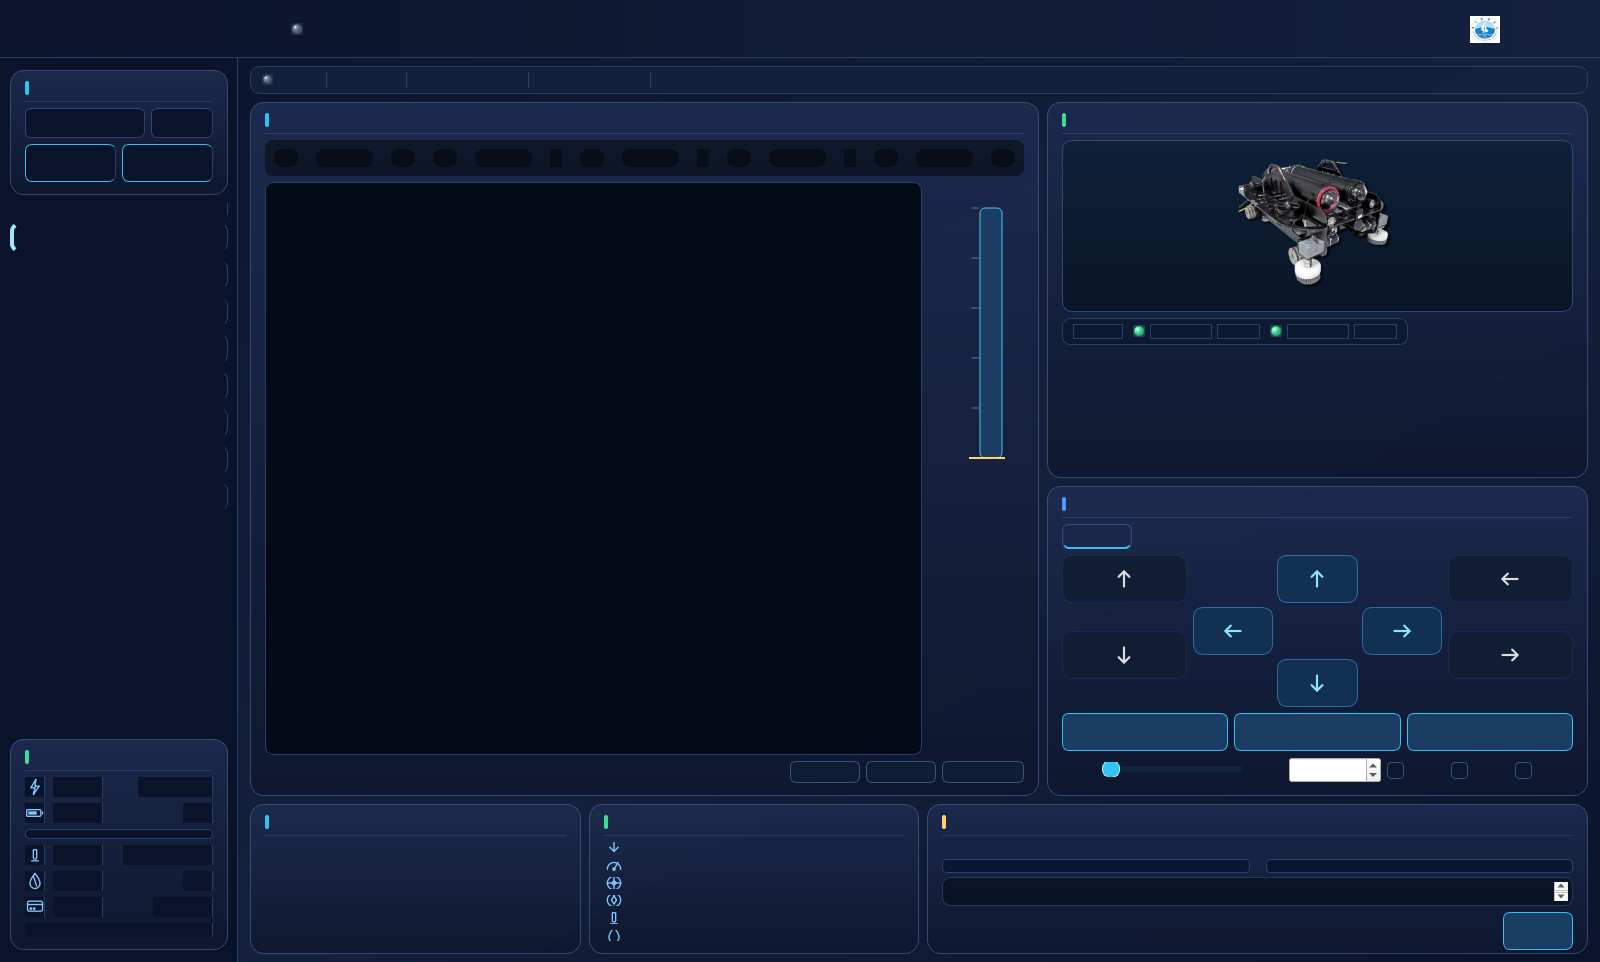
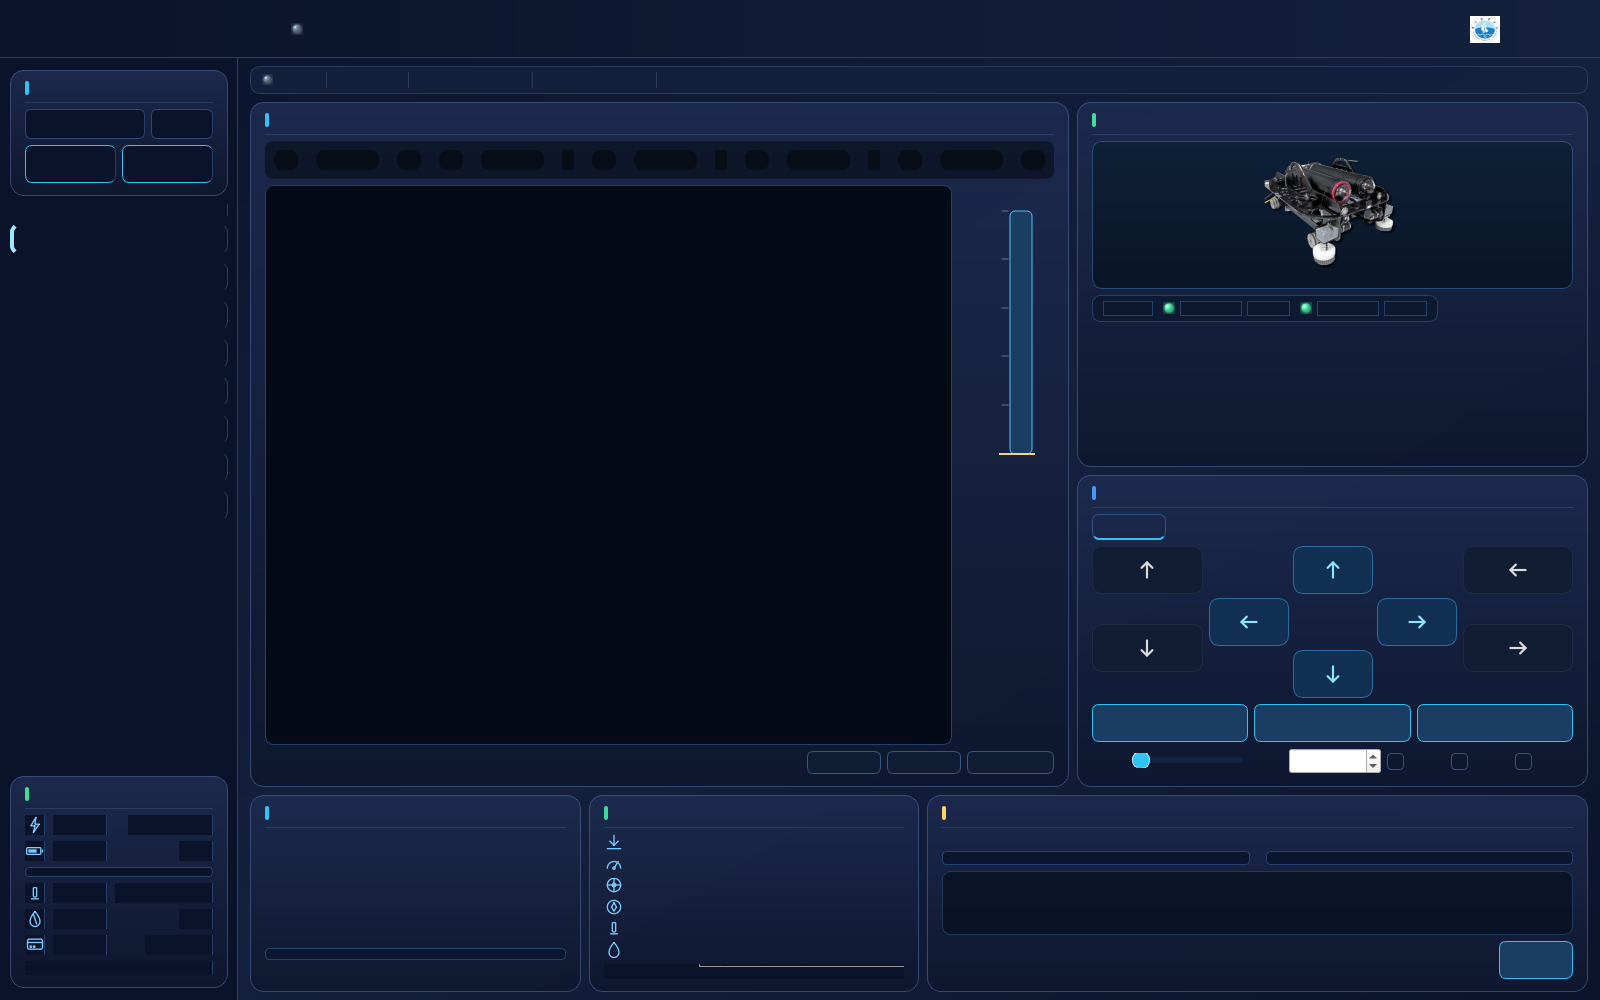
放大全局字号 + 首屏补内容(传感器趋势曲线/任务进度条/填充右列)

diff --git a/dashboard.py b/dashboard.py
@@ -195,7 +195,7 @@ def _panel(title, accent=CYAN):
     bar.setStyleSheet("background:%s; border:none; border-radius:2px;" % accent)
     head = QLabel(title)
     head.setStyleSheet(
-        "color:%s; font-size:14px; font-weight:800; border:none; background:transparent;"
+        "color:%s; font-size:15px; font-weight:800; border:none; background:transparent;"
         "letter-spacing:1px;" % accent)
     hrow.addWidget(bar)
     hrow.addWidget(head, 1)
@@ -253,9 +253,9 @@ def _kv(label, value="--", color=TXT_SUB, unit="", mono=False, icon=None):
             lbl_ico.setPixmap(ico.pixmap(20, 20))
         row.addWidget(lbl_ico)
     lab = QLabel(label)
-    lab.setStyleSheet("color:%s; font-size:12px; letter-spacing:0.5px;" % TXT_SUB)
+    lab.setStyleSheet("color:%s; font-size:13px; letter-spacing:0.5px;" % TXT_SUB)
     val = QLabel("%s%s" % (value, unit))
-    val.setStyleSheet("color:%s; font-size:14px; font-weight:800;" % color)
+    val.setStyleSheet("color:%s; font-size:16px; font-weight:800;" % color)
     if mono:
         _mono(val)
     row.addWidget(lab)
@@ -590,7 +590,7 @@ class Dashboard(QWidget):
             h = QHBoxLayout()
             h.setSpacing(5)
             lb = QLabel(label)
-            lb.setStyleSheet("color:%s;font-size:11px;" % TXT_SUB)
+            lb.setStyleSheet("color:%s;font-size:12px;" % TXT_SUB)
             val = QLabel("--")
             val.setStyleSheet("color:%s;font-size:13px;font-weight:800;" % color)
             _mono(val)
@@ -627,7 +627,7 @@ class Dashboard(QWidget):
             tm = QLabel("演示模式")
         else:
             tm = QLabel("展会演示模式")
-        tm.setStyleSheet("color:%s;font-size:11px;" % TXT_SUB)
+        tm.setStyleSheet("color:%s;font-size:12px;" % TXT_SUB)
         lay.addWidget(tm)
         return bar
 
@@ -646,21 +646,21 @@ class Dashboard(QWidget):
         self._sensor_box, self._sensor_body = _panel("传感器数据", GREEN)
         self._alarm_box, self._alarm_body = _panel("推进器输出与告警", YELLOW)
 
-        # 主区：左视频(主画面, 撑满) + 右紧凑卡片列(贴内容, 顶部对齐)
+        # 主区：左视频(主画面, 撑满) + 右紧凑卡片列(撑满高度, 不再留大空白)
         main = QHBoxLayout()
         main.setSpacing(8)
         main.addWidget(self._video_box, 5)
         right = QVBoxLayout()
         right.setSpacing(8)
         for b in (self._equip_box, self._motion_box):
-            b.setSizePolicy(QSizePolicy.Preferred, QSizePolicy.Maximum)   # 高度贴内容, 不再撑满
+            b.setSizePolicy(QSizePolicy.Preferred, QSizePolicy.Maximum)   # 高度贴内容
         right.addWidget(self._equip_box)
         right.addWidget(self._motion_box)
-        right.addStretch(1)          # 卡片聚顶, 下方留白（QGC 仪表盘风）
+        right.addStretch(1)          # 卡片聚顶，视频撑满主高，避免窗口被顶高
         main.addLayout(right, 4)
         outer.addLayout(main, 1)
 
-        # 底部紧凑横带：任务信息 / 传感器数据 / 推进器输出与告警
+        # 底部紧凑横带：任务信息 / 传感器数据(带趋势) / 推进器输出与告警
         bottom = QHBoxLayout()
         bottom.setSpacing(8)
         for b in (self._task_box, self._sensor_box, self._alarm_box):
@@ -706,7 +706,7 @@ class Dashboard(QWidget):
             lab = QLabel(name)
             lab.setStyleSheet("color:%s; font-size:12px;" % TXT_SUB)
             val = QLabel("--")
-            val.setStyleSheet("color:%s; font-size:20px; font-weight:800;" % TXT)
+            val.setStyleSheet("color:%s; font-size:22px; font-weight:800;" % TXT)
             _mono(val)
             unit_l = QLabel(unit)
             unit_l.setStyleSheet("color:%s; font-size:12px;" % CYAN)
@@ -884,7 +884,7 @@ class Dashboard(QWidget):
             gh.addWidget(lbl)
             gh.addStretch(1)
             val = QLabel(value)
-            val.setStyleSheet("color:%s; font-size:17px; font-weight:800;" % col)
+            val.setStyleSheet("color:%s; font-size:19px; font-weight:800;" % col)
             if fmt is not None:
                 _mono(val)
             row, colc = idx // 2, (idx % 2) * 2
@@ -1230,7 +1230,7 @@ class Dashboard(QWidget):
             lab = QLabel(name)
             lab.setStyleSheet("color:%s; font-size:12px;" % TXT_SUB)
             val = QLabel("--")
-            val.setStyleSheet("color:%s; font-size:18px; font-weight:800;" % TXT)
+            val.setStyleSheet("color:%s; font-size:20px; font-weight:800;" % TXT)
             _mono(val)
             unit_l = QLabel(unit)
             unit_l.setStyleSheet("color:%s; font-size:12px;" % CYAN)
@@ -1307,12 +1307,12 @@ class Dashboard(QWidget):
         photo = QLabel()
         photo.setObjectName("rovPhoto")
         photo.setAlignment(Qt.AlignCenter)
-        photo.setFixedHeight(172)
+        photo.setFixedHeight(148)
         path = os.path.join(ASSET_DIR, "rov_photo.png")
         if os.path.exists(path):
             pm = QPixmap(path)
             if not pm.isNull():
-                photo.setPixmap(pm.scaledToHeight(140, Qt.SmoothTransformation))
+                photo.setPixmap(pm.scaledToHeight(120, Qt.SmoothTransformation))
         else:
             photo.setText("ROV 示意图（待放置俯视图）")
         photo.setStyleSheet(
@@ -1406,7 +1406,7 @@ class Dashboard(QWidget):
         col.addWidget(mvbtn("上升", disabled=True, icon="up"))
         self._pct_up = QLabel("0%")
         self._pct_up.setAlignment(Qt.AlignCenter)
-        self._pct_up.setStyleSheet("color:%s; font-size:16px; font-weight:800;" % CYAN)
+        self._pct_up.setStyleSheet("color:%s; font-size:18px; font-weight:800;" % CYAN)
         col.addWidget(self._pct_up)
         col.addWidget(mvbtn("下降", disabled=True, icon="down"))
         col.addStretch(1)
@@ -1418,7 +1418,7 @@ class Dashboard(QWidget):
         mid.addWidget(mvbtn("左转", lambda: self._move("left"), icon="left"), 1, 0)
         self._pct_center = QLabel("0%")
         self._pct_center.setAlignment(Qt.AlignCenter)
-        self._pct_center.setStyleSheet("color:%s; font-size:16px; font-weight:800;" % CYAN)
+        self._pct_center.setStyleSheet("color:%s; font-size:18px; font-weight:800;" % CYAN)
         mid.addWidget(self._pct_center, 1, 1)
         mid.addWidget(mvbtn("右转", lambda: self._move("right"), icon="right"), 1, 2)
         mid.addWidget(mvbtn("后退", lambda: self._move("backward"), icon="down"), 2, 1)
@@ -1431,7 +1431,7 @@ class Dashboard(QWidget):
         colr.addWidget(mvbtn("左移", disabled=True, icon="left"))
         self._pct_side = QLabel("0%")
         self._pct_side.setAlignment(Qt.AlignCenter)
-        self._pct_side.setStyleSheet("color:%s; font-size:16px; font-weight:800;" % CYAN)
+        self._pct_side.setStyleSheet("color:%s; font-size:18px; font-weight:800;" % CYAN)
         colr.addWidget(self._pct_side)
         colr.addWidget(mvbtn("右移", disabled=True, icon="right"))
         colr.addStretch(1)
@@ -1484,10 +1484,26 @@ class Dashboard(QWidget):
         vals = [
             ("任务名称", "无"), ("任务编号", "无"),
             ("任务时长", "00:00:00"), ("已完成航点", "0 / 0"),
+            ("目标航点", "0"), ("当前速度", "0.0 m/s"),
         ]
         for k, v in vals:
             r, _ = _kv(k, v, TXT)
             body.addLayout(r)
+        # 任务执行进度
+        self._task_pbar = QProgressBar()
+        self._task_pbar.setRange(0, 100)
+        self._task_pbar.setValue(0)
+        self._task_pbar.setFixedHeight(12)
+        self._task_pbar.setObjectName("taskBar")
+        self._task_pbar.setFormat("进度 %p%")
+        self._task_pbar.setStyleSheet(
+            "QProgressBar{background:#0b1730;border:1px solid #23436e;border-radius:4px;"
+            "text-align:center;color:%s;}"
+            "QProgressBar::chunk{background:%s;border-radius:3px;}" % (TXT_SUB, CYAN))
+        body.addWidget(self._task_pbar)
+        self._task_pct = QLabel("完成 0%")
+        self._task_pct.setStyleSheet("color:%s; font-size:13px; font-weight:800;" % CYAN)
+        body.addWidget(self._task_pct)
         body.addStretch(1)
 
     def _build_sensor(self):
@@ -1511,7 +1527,21 @@ class Dashboard(QWidget):
                 r, val = _kv(label, fmt % _ZERO[key], TXT, mono=True, icon=icon)
                 self._sensor_vals.append((label, val, key, (lambda k=key, f=fmt: (lambda v: f % v[k]))()))
             body.addLayout(r)
-        body.addStretch(1)
+
+        # 趋势曲线（深度/水温）—— 填充该卡剩余空间，实时可视化
+        self._sensor_plot = pg.PlotWidget()
+        self._sensor_plot.setBackground(QColor(BG0))
+        self._sensor_plot.showGrid(x=True, y=True, alpha=0.15)
+        self._sensor_plot.hideButtons()
+        self._sensor_plot.setMenuEnabled(False)
+        self._sensor_plot.setLabel("left", "深度 m", color=TXT_SUB)
+        for ax in ("left", "bottom"):
+            self._sensor_plot.getAxis(ax).setTextPen(QColor(TXT_SUB))
+        self._sensor_x = []
+        self._sensor_h = {"depth": [], "temp": []}
+        self._curve_depth = self._sensor_plot.plot(pen=pg.mkPen(CYAN, width=2))
+        self._curve_temp = self._sensor_plot.plot(pen=pg.mkPen(GREEN, width=2))
+        body.addWidget(self._sensor_plot, 1)
 
     def _build_thruster_alarm(self):
         body = self._alarm_body
@@ -1528,7 +1558,7 @@ class Dashboard(QWidget):
             hd = QLabel(tag)
             hd.setStyleSheet("color:%s; font-size:12px; font-weight:800;" % color)
             nm = QLabel(name)
-            nm.setStyleSheet("color:%s; font-size:11px;" % TXT_SUB)
+            nm.setStyleSheet("color:%s; font-size:12px;" % TXT_SUB)
             hrow.addWidget(hd)
             hrow.addWidget(nm)
             hrow.addStretch(1)
@@ -1841,6 +1871,17 @@ class Dashboard(QWidget):
                 lbl2.setText("%.1f" % v[key2])
         for _label, val, _key, f in self._sensor_vals:
             val.setText(f(v))
+        # 传感器趋势曲线（深度/水温）
+        if hasattr(self, "_curve_depth"):
+            self._sensor_x.append(len(self._sensor_x))
+            self._sensor_h["depth"].append(v["depth_m"])
+            self._sensor_h["temp"].append(v["water_temp"])
+            if len(self._sensor_x) > 60:
+                self._sensor_x.pop(0)
+                self._sensor_h["depth"].pop(0)
+                self._sensor_h["temp"].pop(0)
+            self._curve_depth.setData(self._sensor_x, self._sensor_h["depth"])
+            self._curve_temp.setData(self._sensor_x, self._sensor_h["temp"])
         for val, key, fmt, _col in self._sys_rows:
             val.setText(fmt % v_sys[key])
         self._bat_bar.setValue(int(v_sys["battery"]))
@@ -1907,13 +1948,13 @@ QWidget#root { background:qlineargradient(x1:0,y1:0,x2:1,y2:1,
 QLabel { color:%(sub)s; background:transparent; }
 QLabel[mono="true"] { font-family:"Consolas","Cascadia Mono","Microsoft YaHei UI"; }
 QLabel#video { background:#050b16; border:1px solid #27406b; border-radius:8px;
-    color:#7c93b5; font-size:15px; }
+    color:#7c93b5; font-size:16px; }
 
 /* ---- 按钮：暗底亮字，hover 发光，pressed 位移 ---- */
 QPushButton {
     background:qlineargradient(x1:0,y1:0,x2:0,y2:1,stop:0 #17325c,stop:1 #10233f);
     color:#d7ecff; border:1px solid #2f5186; border-radius:7px;
-    padding:5px 10px; font-size:12px;
+    padding:5px 10px; font-size:13px;
 }
 QPushButton:hover { border-color:%(cyan)s; background:#1c3f70;
     color:#ffffff; }
@@ -1930,7 +1971,7 @@ QPushButton#iconBtn { border:none; background:transparent; font-size:18px;
 QPushButton#iconBtn:hover { background:rgba(49,196,243,40); color:#fff; }
 
 QPushButton#navBtn { text-align:left; padding:8px 14px; border-radius:8px;
-    border:none; color:%(sub)s; font-size:13px; }
+    border:none; color:%(sub)s; font-size:14px; }
 QPushButton#navBtn:hover { background:rgba(49,196,243,30); color:#eaf7ff; }
 QPushButton#navBtn:checked { background:rgba(49,196,243,44); color:#ffffff; font-weight:800;
     border-left:4px solid #9fe7ff; }
@@ -1972,7 +2013,7 @@ QCheckBox::indicator:checked { background:%(cyan)s; border-color:%(cyan)s; }
 
 QTextBrowser#alarm { background:rgba(8,16,32,200);
     border:1px solid #22395e; border-radius:8px;
-    color:#cfe4ff; font-size:12px; padding:4px; }
+    color:#cfe4ff; font-size:13px; padding:4px; }
 
 QSlider::groove:horizontal { height:6px; background:#14233f; border-radius:3px; }
 QSlider::handle:horizontal { width:16px; margin:-6px 0; border-radius:8px;
@@ -1985,7 +2026,7 @@ def main():
     app = QApplication(sys.argv)
     app.setStyle("Fusion")
     # 全局无衬线字体；数字走等宽（见 mono 属性 QSS）
-    app.setFont(QFont("Microsoft YaHei UI", 10))
+    app.setFont(QFont("Microsoft YaHei UI", 11))
     w = Dashboard()
     w.setWindowTitle("智能水下清洁机器人控制系统 V1.0 · 监控大屏")
     w.resize(1600, 940)
